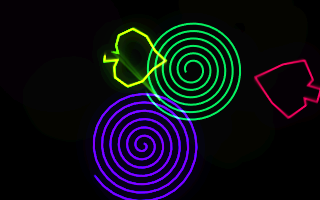
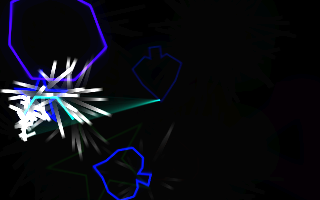
update laserShapes

diff --git a/effects/laserShapes.html b/effects/laserShapes.html
@@ -3,7 +3,7 @@
 
 <head>
     <title>Laser Shapes</title>
-    <meta description="A customizable laser light show that draws geometric shapes in sync with your music." />
+    <meta description="A customizable laser light show that draws geometric shapes in sync with your music, now with sparkles." />
     <meta publisher="Jose Miranda" />
 
     <meta property="laserCount" label="Max Shapes" type="number" default="40" min="1" max="40">
@@ -13,6 +13,7 @@
 
     <meta property="palette" label="Color Palette" type="combobox" values="Custom,Rainbow,Party,Ocean,Lava,Forest,Sunset,Aurora,Vaporwave" default="Rainbow">
     <meta property="colorSpeed" label="Color Cycle Speed" type="number" default="10" min="0" max="50">
+    <meta property="drawSparkles" label="Sparkles" type="boolean" default="true">
     <meta property="customColor1" label="Custom Color 1" type="color" default="#00ff00">
     <meta property="customColor2" label="Custom Color 2" type="color" default="#ff00ff">
 
@@ -59,6 +60,7 @@
 
         // --- State for Drawing Modes (Array for multiple shapes) ---
         let activeShapes = [];
+        let sparkles = []; // For sparkle effect
 
 
         const wledPalettes = {
@@ -230,6 +232,7 @@
                 isResponsive: typeof soundResponsive !== 'undefined' ? soundResponsive : true,
                 bassSens: (typeof bassSensitivity !== 'undefined' ? Math.round(bassSensitivity) : 50) / 100,
                 bassFill: typeof bassFillFlash !== 'undefined' ? bassFillFlash : true,
+                sparkles: typeof drawSparkles !== 'undefined' ? drawSparkles : true,
             };
 
             // --- Audio Reactivity Logic ---
@@ -566,6 +569,26 @@
                             ctx.lineTo(transformedX, transformedY);
                             ctx.stroke();
                         }
+                        
+                        // --- (SPAWNING) WHITE LINE SPARKLE LOGIC ---
+                        const spawnChance = 1; // Chance to spawn each frame
+                        
+                        if (p.sparkles) {
+                            if (Math.random() < spawnChance) {
+                                const angle = Math.random() * Math.PI * 2;
+                                // Reduced speed to keep sparkles "tighter"
+                                const speed = Math.random() +0.5; // Slower speed (was 1.5 + 0.5)
+                                sparkles.push({
+                                    x: transformedX, // Spawn at the exact laser point
+                                    y: transformedY,
+                                    vx: Math.cos(angle) * speed,
+                                    vy: Math.sin(angle) * speed,
+                                    life: 1.0,
+                                });
+                            }
+                        }
+                        // --- END SPAWNING LOGIC ---
+
                     }
                 } // End if(isActiveDrawing) for lasers
 
@@ -578,9 +601,40 @@
                         activeShapes[j].isActiveDrawing = true;
                         break;
                     }
-                    _
                 }
             }
+
+            // --- (DRAWING) WHITE LINE SPARKLE LOGIC ---
+            ctx.shadowBlur = 0; // Sparkles don't need glow
+            ctx.globalCompositeOperation = 'lighter'; // Make sparkles additive
+            ctx.lineWidth = 3; // Set line width for sparkles
+            for (let i = sparkles.length - 1; i >= 0; i--) {
+                const s = sparkles[i];
+                s.life -= 0.02; // Fade speed
+
+                // Update position
+                s.x += s.vx;
+                s.y += s.vy;
+
+                if (s.life <= 0) {
+                    sparkles.splice(i, 1);
+                } else {
+                    // Draw the sparkle line
+                    const alpha = s.life; // Fade out
+                    ctx.strokeStyle = `rgba(255, 255, 255, ${alpha})`;
+                    
+                    // Calculate a short tail
+                    const tailLength = 10.0;
+                    const prevX = s.x - s.vx * tailLength;
+                    const prevY = s.y - s.vy * tailLength;
+                    
+                    ctx.beginPath();
+                    ctx.moveTo(s.x, s.y);
+                    ctx.lineTo(prevX, prevY);
+                    ctx.stroke();
+                }
+            }
+            // --- END DRAWING LOGIC ---
 
             ctx.shadowBlur = 0; // Reset shadow for next frame
             time++;